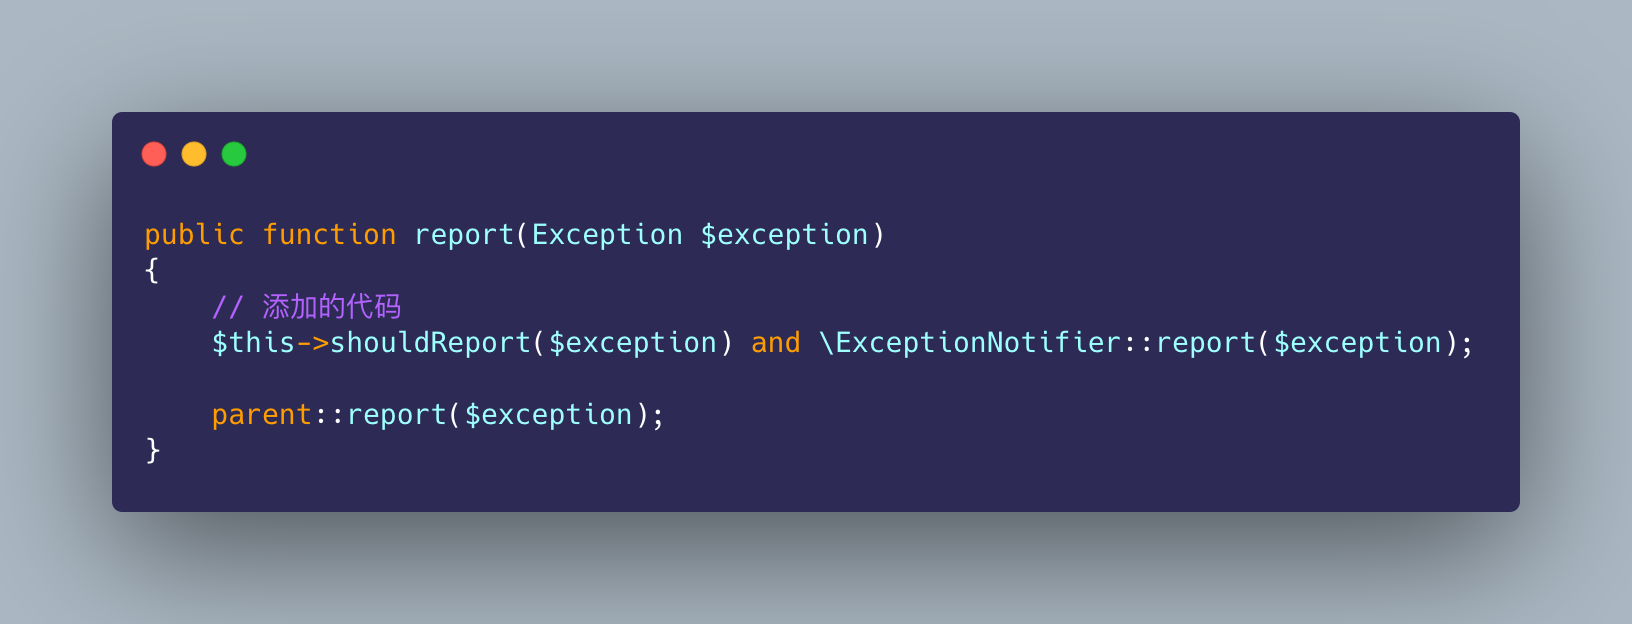
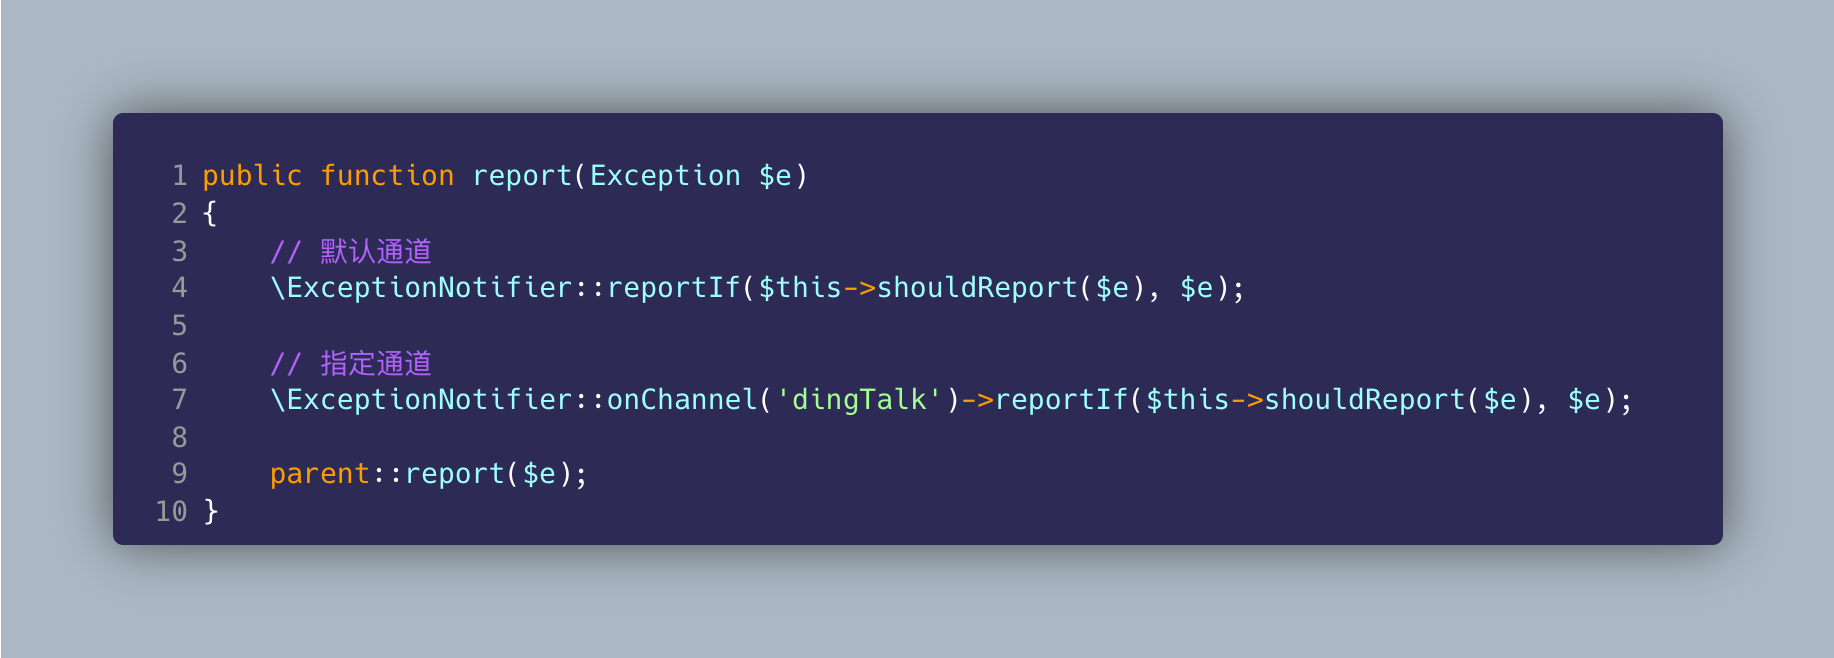
Update docs

Changed region(s): [[0.0625, 0.1522, 0.9688, 0.9744]]

diff --git a/README.md b/README.md
@@ -4,7 +4,7 @@
 
 [简体中文](README.md) | [ENGLISH](README-EN.md)
 
-> Multiple channels of laravel exception notification(DingTalk、FeiShu、ServerChan、WeWork、XiZhi). - 多种通道的 laravel 异常通知(钉钉群机器人、飞书群机器人、Server 酱、企业微信群机器人、息知)。
+> Multiple channels of laravel exception notification(Chanify、DingTalk、FeiShu、Mail、ServerChan、WeWork、XiZhi). - 多种通道的 laravel 异常通知(Chanify、钉钉群机器人、飞书群机器人、邮件、Server 酱、企业微信群机器人、息知)。
 
 [![Tests](https://github.com/guanguans/laravel-exception-notify/workflows/Tests/badge.svg)](https://github.com/guanguans/laravel-exception-notify/actions)
 [![Check & fix styling](https://github.com/guanguans/laravel-exception-notify/workflows/Check%20&%20fix%20styling/badge.svg)](https://github.com/guanguans/laravel-exception-notify/actions)
@@ -16,8 +16,10 @@
 ## 功能
 
 * 监控发送 laravel 应用异常
-* 支持多种通道(钉钉群机器人、飞书群机器人、Server 酱、企业微信群机器人、息知)
-* 自定义发送的异常信息数据
+* 支持多种通道(Chanify、钉钉群机器人、飞书群机器人、邮件、Server 酱、企业微信群机器人、息知)
+* 支持扩展自定义通道
+* 支持自定义数据收集器
+* 支持自定义数据转换器
 
 ## 相关项目
 
@@ -54,6 +56,7 @@ $app->register(\Guanguans\LaravelExceptionNotify\ExceptionNotifyServiceProvider:
 
 ### 申请通道 token 等信息
 
+* [Chanify](https://github.com/chanify?type=source)
 * [钉钉群机器人](https://developers.dingtalk.com/document/app/custom-robot-access)
 * [飞书群机器人](https://www.feishu.cn/hc/zh-CN/articles/360024984973)
 * [Server 酱](https://sct.ftqq.com)
@@ -68,9 +71,9 @@ $app->register(\Guanguans\LaravelExceptionNotify\ExceptionNotifyServiceProvider:
 
 ```dotenv
 EXCEPTION_NOTIFY_DEFAULT_CHANNEL=dingTalk
-EXCEPTION_NOTIFY_CHANNEL_KEYWORD=keyword
-EXCEPTION_NOTIFY_CHANNEL_TOKEN=fec1ddaa8a833156efb77b7865d62ae13775418030d94d05da08bfca73eeb
-EXCEPTION_NOTIFY_CHANNEL_SECRET=c32bb7345c0f73da2b9786f0f7dd5083bd768a29b82e6d460149d730eee51730
+EXCEPTION_NOTIFY_DINGTALK_KEYWORD=keyword
+EXCEPTION_NOTIFY_DINGTALK_TOKEN=c44fec1ddaa8a833156efb77b7865d62ae13775418030d94d
+EXCEPTION_NOTIFY_DINGTALK_SECRET=SECc32bb7345c0f73da2b9786f0f7dd5083bd768a29b82
 ```
 
 ## 使用
@@ -78,28 +81,21 @@ EXCEPTION_NOTIFY_CHANNEL_SECRET=c32bb7345c0f73da2b9786f0f7dd5083bd768a29b82e6d46
 ### `app/Exceptions/Handler.php` 的 `report` 方法中添加
 
 ```php
-public function report(Exception $exception)
+public function report(Exception $e)
 {
-    // 添加的代码
-    $this->shouldReport($exception) and \ExceptionNotifier::report($exception);
-    // // 或者
-    // $this->shouldReport($exception) and app('exception.notifier')->report($exception);
-    // // 或者
-    // $this->shouldReport($exception) and \Guanguans\LaravelExceptionNotify\Facades\Notifier::report($exception);
+    // 默认通道
+    \ExceptionNotifier::reportIf($this->shouldReport($e), $e);
+    
+    // 指定通道
+    \ExceptionNotifier::onChannel('dingTalk', 'mail')->reportIf($this->shouldReport($e), $e);
 
-    parent::report($exception);
+    parent::report($e);
 }
 ```
 
 ### 通知结果
 
-![息知](docs/xiZhi.png)
-
-![钉钉群机器人](docs/dingTalk.png)
-
-![飞书群机器人](docs/feiShu.png)
-
-![企业微信群机器人](docs/weWork.png)
+![息知](docs/xiZhi.jpg)
 
 ## 测试
 

diff --git a/README-EN.md b/README-EN.md
@@ -2,7 +2,7 @@
 
 [简体中文](README.md) | [ENGLISH](README-EN.md)
 
-> Multiple channels of laravel exception notification(DingTalk、FeiShu、ServerChan、WeWork、XiZhi). - 多种通道的 laravel 异常通知(钉钉群机器人、飞书群机器人、Server 酱、企业微信群机器人、息知)。
+> Multiple channels of laravel exception notification(Chanify、DingTalk、FeiShu、Mail、ServerChan、WeWork、XiZhi). - 多种通道的 laravel 异常通知(Chanify、钉钉群机器人、飞书群机器人、邮件、Server 酱、企业微信群机器人、息知)。
 
 [![Tests](https://github.com/guanguans/laravel-exception-notify/workflows/Tests/badge.svg)](https://github.com/guanguans/laravel-exception-notify/actions)
 [![Check & fix styling](https://github.com/guanguans/laravel-exception-notify/workflows/Check%20&%20fix%20styling/badge.svg)](https://github.com/guanguans/laravel-exception-notify/actions)
@@ -14,8 +14,10 @@
 ## Feature
 
 * Monitor and send laravel application exception
-* Support multiple channels(DingTalk、FeiShu、ServerChan、WeWork、XiZhi)
-* Customize the abnormal information data sent
+* Support multiple channels(Chanify、DingTalk、FeiShu、Mail、ServerChan、WeWork、XiZhi)
+* Support for extended custom channels
+* Support for custom data collectors
+* Support for custom data transformers
 
 ## Related Links
 
@@ -52,6 +54,7 @@ $app->register(\Guanguans\LaravelExceptionNotify\ExceptionNotifyServiceProvider:
 
 ### Apply for channel `token` and other information
 
+* [Chanify](https://github.com/chanify?type=source)
 * [Dingtalk](https://developers.dingtalk.com/document/app/custom-robot-access)
 * [Feishu](https://www.feishu.cn/hc/zh-CN/articles/360024984973)
 * [ServerChan](https://sct.ftqq.com)
@@ -66,9 +69,9 @@ Configure in the `.env` file
 
 ```dotenv
 EXCEPTION_NOTIFY_DEFAULT_CHANNEL=dingTalk
-EXCEPTION_NOTIFY_CHANNEL_KEYWORD=keyword
-EXCEPTION_NOTIFY_CHANNEL_TOKEN=fec1ddaa8a833156efb77b7865d62ae13775418030d94d05da08bfca73eeb
-EXCEPTION_NOTIFY_CHANNEL_SECRET=c32bb7345c0f73da2b9786f0f7dd5083bd768a29b82e6d460149d730eee51730
+EXCEPTION_NOTIFY_DINGTALK_KEYWORD=keyword
+EXCEPTION_NOTIFY_DINGTALK_TOKEN=c44fec1ddaa8a833156efb77b7865d62ae13775418030d94d
+EXCEPTION_NOTIFY_DINGTALK_SECRET=SECc32bb7345c0f73da2b9786f0f7dd5083bd768a29b82
 ```
 
 ## Usage
@@ -76,28 +79,21 @@ EXCEPTION_NOTIFY_CHANNEL_SECRET=c32bb7345c0f73da2b9786f0f7dd5083bd768a29b82e6d46
 ### Modify the `report` method in the `app/Exceptions/Handler.php` file
 
 ```php
-public function report(Exception $exception)
+public function report(Exception $e)
 {
-    // Added code
-    $this->shouldReport($exception) and \ExceptionNotifier::report($exception);
-    // // OR
-    // $this->shouldReport($exception) and app('exception.notifier')->report($exception);
-    // // OR
-    // $this->shouldReport($exception) and \Guanguans\LaravelExceptionNotify\Facades\Notifier::report($exception);
+    // 默认通道
+    \ExceptionNotifier::reportIf($this->shouldReport($e), $e);
+    
+    // 指定通道
+    \ExceptionNotifier::onChannel('dingTalk', 'mail')->reportIf($this->shouldReport($e), $e);
 
-    parent::report($exception);
+    parent::report($e);
 }
 ```
 
 ### Notification result
 
 ![xiZhi](docs/xiZhi.png)
-
-![dingTalk](docs/dingTalk.png)
-
-![feiShu](docs/feiShu.png)
-
-![weWork](docs/weWork.png)
 
 ## Testing
 
